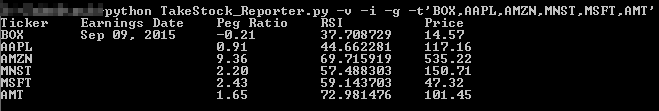
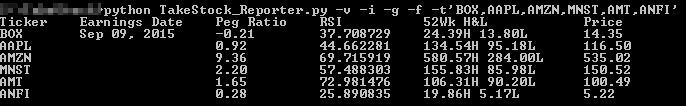
-Add 52 Week Low and Highs -Improve Header Formatting -Update Screenshot

Changed region(s): [[0.0, 0.0283, 1.0, 0.934], [0.0, 0.0, 0.0303, 0.0283]]

diff --git a/TakeStock_Reporter.py b/TakeStock_Reporter.py
@@ -19,6 +19,7 @@ def main():
     global verbose
     global peg_ratio
     global rsi
+    global fifty_two
 
     email_sender = None
     email_receiver = None
@@ -29,15 +30,16 @@ def main():
     verbose = False
     peg_ratio = False
     rsi = False
+    fifty_two = False
 
     if not len(sys.argv[1:]):
         usage()
 
     # Read the commandline options
     try:
-        opts, args = getopt.getopt(sys.argv[1:], "he:r:p:t:s:o:vgi", ['help', 'email_sender=', 'email_receiver=',
+        opts, args = getopt.getopt(sys.argv[1:], "he:r:p:t:s:o:vgif", ['help', 'email_sender=', 'email_receiver=',
                                                                       'password=', 'tickers=' 'smtp=', 'port=',
-                                                                      'verbose', 'growth', 'rsi'])
+                                                                      'verbose', 'growth', 'rsi', 'fifty_two'])
     except getopt.GetoptError as err:
         print(str(err))
         usage()
@@ -63,6 +65,8 @@ def main():
             peg_ratio = True
         elif o in ('-i', '--rsi'):
             rsi = True
+        elif o in ('-f', '--fifty_two'):
+            fifty_two = True
         else:
             assert False, "Unhandled Option"
 
@@ -87,6 +91,7 @@ def usage():
             -v --verbose            - print earnings date and price
             -g --peg_ratio          - print peg ratio
             -r --rsi                - print relative strength indicator
+            -f --fifty_two           - print fifty-two week high and low
             \n\n
             Examples:
             TakeStock.py -e sender_email@your_domain.com -p sender_password -r email_recipient@recipient_domain.com -s smtp.gmail.com -p 587 -t 'AAPL,MSFT,AMT' -v
@@ -102,13 +107,15 @@ def print_results(tickers=None):
     stocks = QuarterlyReport.get_stocks(tickers)
 
     if verbose:
-        string_header = 'Ticker    Earnings Date    '
+        string_header = '{:<10}'.format('Ticker') + '{:<17}'.format('Earnings Date')
         string_to_line = ''
         if peg_ratio:
-            string_header += 'Peg Ratio    '
+            string_header += '{:<13}'.format('Peg Ratio')
         if rsi:
-            string_header += 'RSI          '
-        string_header += 'Price'
+            string_header += '{:<13}'.format('RSI')
+        if fifty_two:
+            string_header += '{:<20}'.format('52Wk H&L')
+        string_header += '{:<12}'.format('Price')
         print(string_header)
         for stock in stocks:
             string_to_line = '{:<10}'.format(stock.ticker) + '{:<17}'.format(stock.earnings_date)
@@ -116,11 +123,10 @@ def print_results(tickers=None):
                 string_to_line += '{:<13}'.format(str(stock.peg_ratio))
             if rsi:
                 string_to_line += '{:<13}'.format(str(stock.rsi))
+            if fifty_two:
+                string_to_line += '{:<20}'.format(str(stock.fifty_two))
             string_to_line += '{:<12}'.format(str(stock.price))
             print(string_to_line)
-            # print('{:<10}'.format(stock.ticker) + '{:<17}'.format(stock.earnings_date) +
-            #         '{:<13}'.format(str(stock.peg_ratio)) + '{:<13}'.format(str(stock.rsi)) +
-            #         '{:<12}'.format(str(stock.price)))
 
 
 def send_email(tickers=None, to_addr='your_email_here@your_domain.com'):

diff --git a/QuarterlyReport.py b/QuarterlyReport.py
@@ -24,6 +24,22 @@ def get_earnings_date(ticker=''):
     return tag[tag.index(':') + 1:].strip()
 
 
+def get_fifty_two_week_high_low(ticker=''):
+    """
+    This function gets the fifty-two week high and lows for the given ticker symbol. It performs a request to the
+    http://www.barchart.com/ url and parses the response to find the fifty-two week high and low.
+    :param ticker: The stock symbol/ticker to use for the lookup
+    :return: String containing the fifty two week high and low
+    """
+    earnings_url = 'http://www.barchart.com/quotes/stocks/' + ticker.upper()
+    request = requests.get(earnings_url)
+    soup = bs4.BeautifulSoup(request.text, 'html.parser')
+    found_value = soup.find(text=re.compile('52Wk'))
+    high_text = found_value.findPrevious('td').text.strip()
+    low_text = found_value.findNext('td').text.strip()
+    return high_text[0:high_text.index('\t')]+'H ' + low_text[0:low_text.index('\t')]+'L'
+
+
 def get_peg_ratio(ticker=''):
     """
     This function gets the PEG ratio for the given ticker symbol. It performs a request to the
@@ -59,7 +75,8 @@ def get_stocks(tickers=None):
     for ticker in tickers:
         stocks.append(
             Stock(price=Suds_Client.quote_request(ticker=ticker), earnings_date=get_earnings_date(ticker=ticker),
-                  ticker=ticker, peg_ratio=get_peg_ratio(ticker), rsi=get_rsi(ticker=ticker)))
+                  ticker=ticker, peg_ratio=get_peg_ratio(ticker), rsi=get_rsi(ticker=ticker),
+                  fifty_two=get_fifty_two_week_high_low(ticker=ticker)))
     return stocks
 
 
@@ -67,13 +84,13 @@ class Stock:
     """
     Defines a stock.
     """
-    def __init__(self, price=0, earnings_date='', ticker='', peg_ratio='', rsi=''):
+    def __init__(self, price=0, earnings_date='', ticker='', peg_ratio='', rsi='', fifty_two=''):
         self.price = price
         self.earnings_date = earnings_date
         self.ticker = ticker
         self.peg_ratio = peg_ratio
         self.rsi = rsi
-
+        self.fifty_two = fifty_two
 
 if __name__ == "__main__":
     # If the script is being invoked directly, run the main method.
